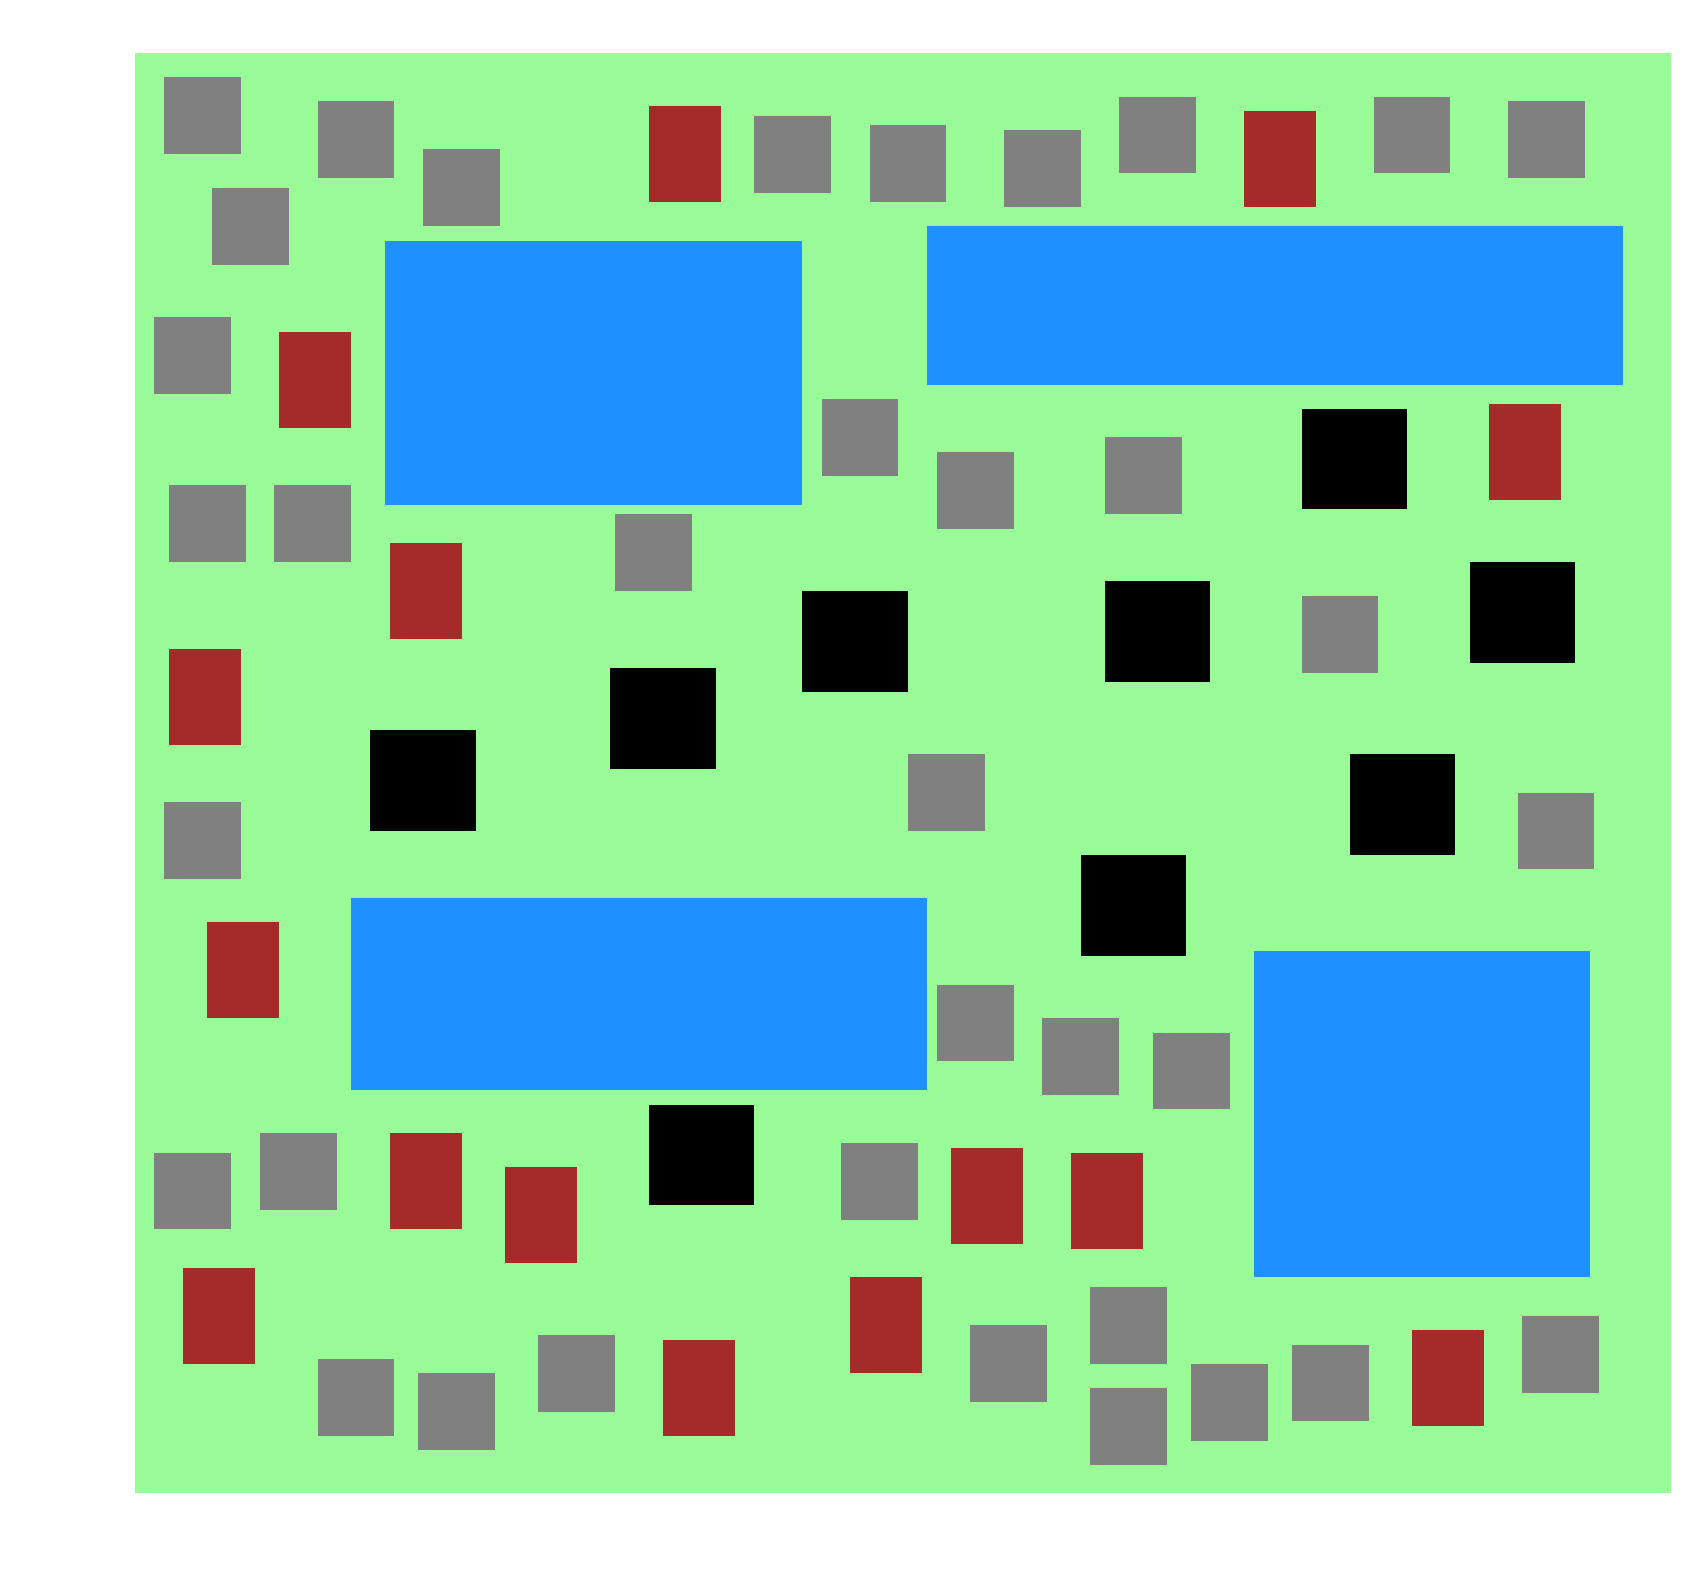
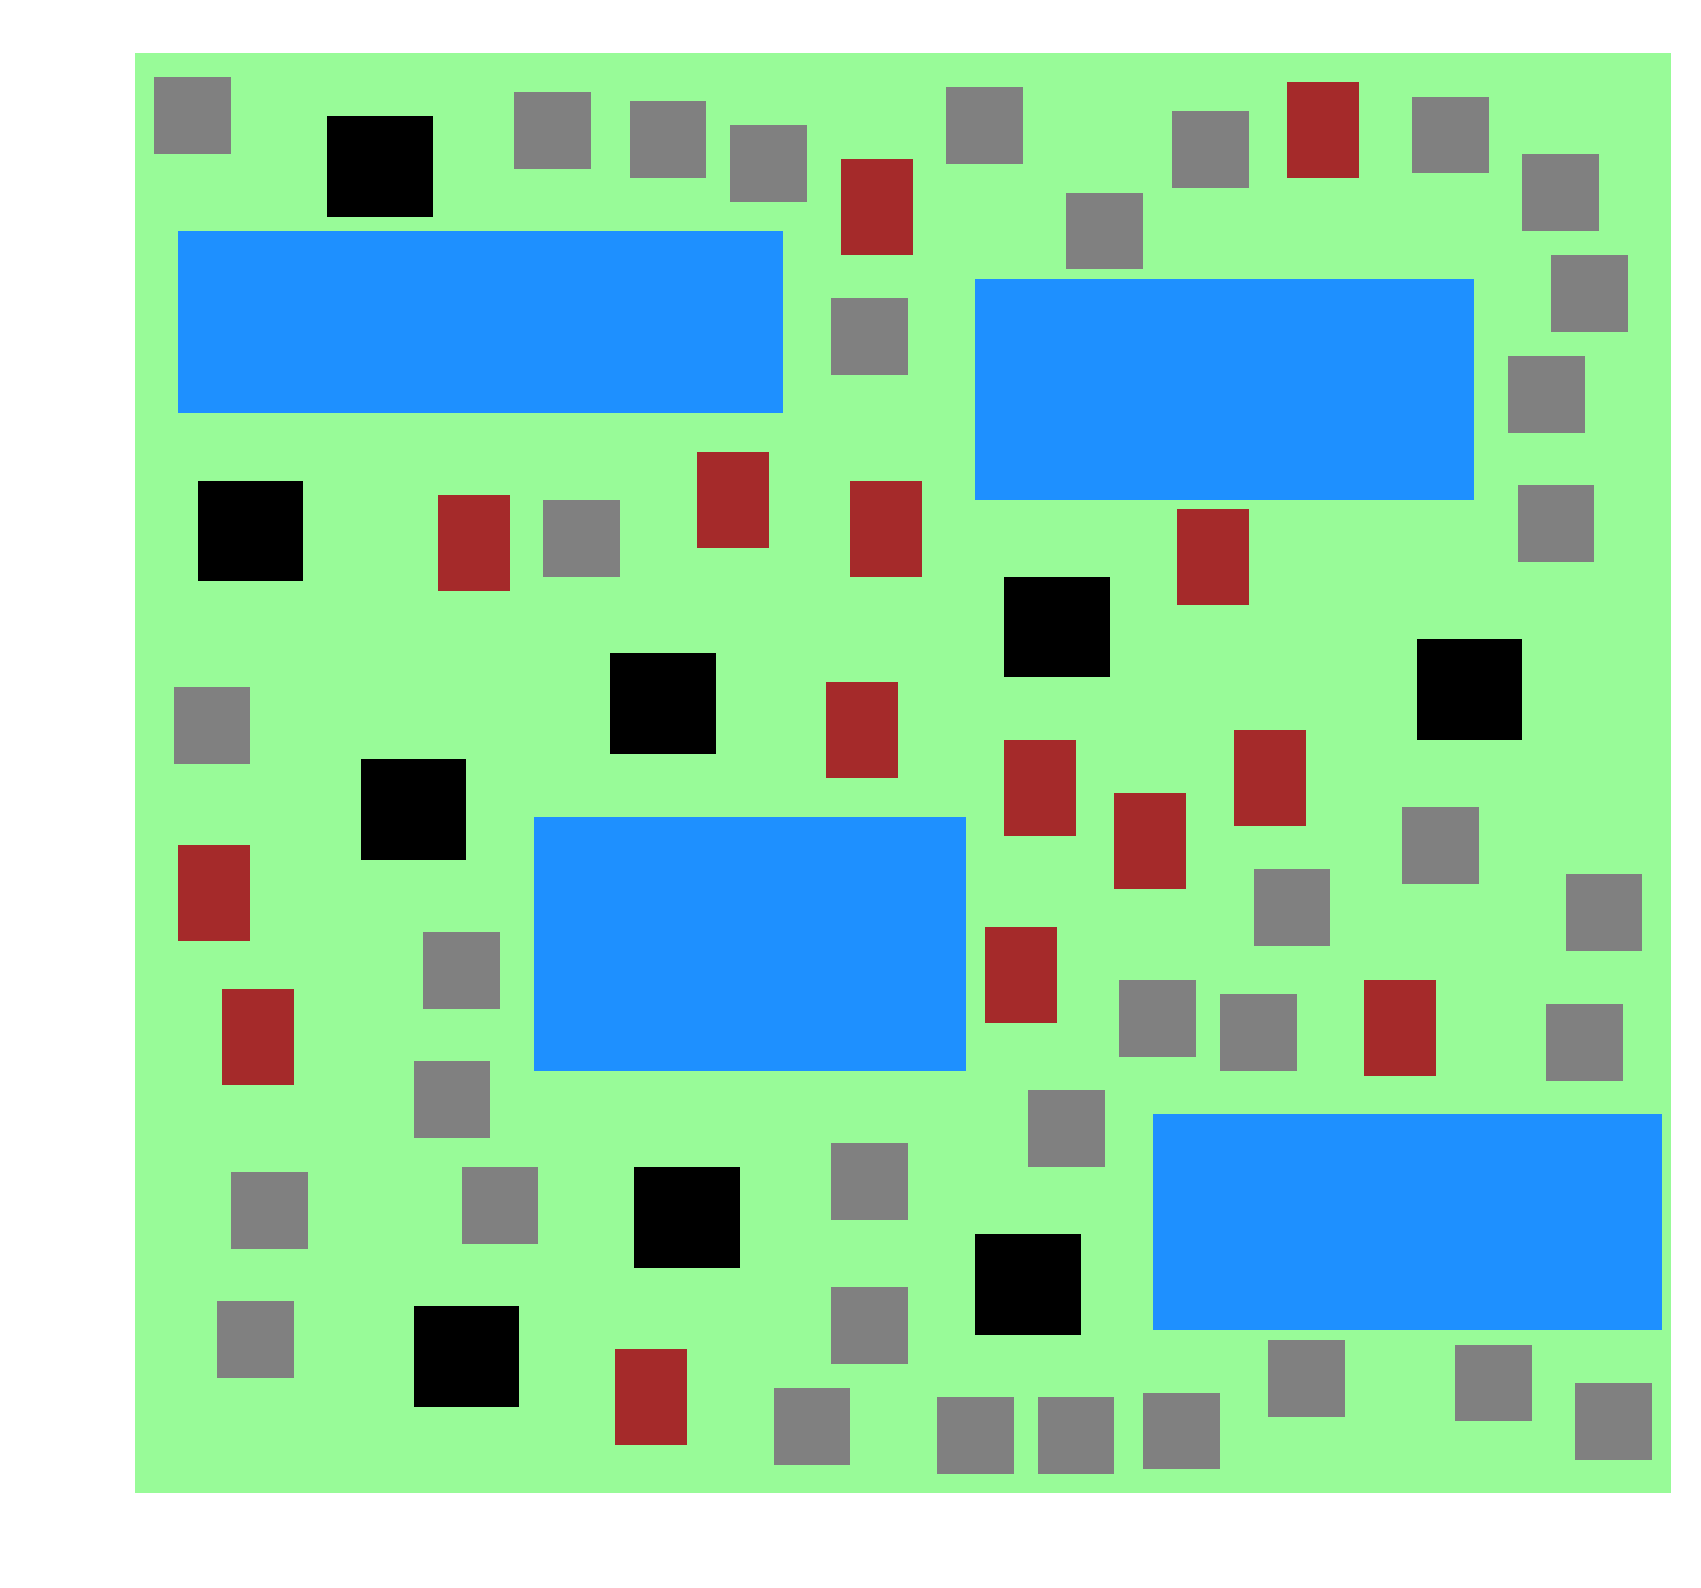
schuif annealing werkt

diff --git a/main.py b/main.py
@@ -2,6 +2,7 @@ import csv
 import sys
 import random
 import matplotlib.pyplot as plt
+import math
 from combination import Combination
 from graph import *
 from schuiven import schuiven
@@ -32,12 +33,12 @@ def informWrongUsage():
     print "Incorrect aantal huizen opgegeven. Correct gebruik:"
     print "python main.py [aantal huizen] [methode] [score]"
     print "aantal huizen: 20, 40 of 60"
-    print "methode: randsample, schuiven of swappen"
+    print "methode: randsample, schuiven, swappen of annealingschuiven"
     print "score: waarde of vrijstand"
     sys.exit()
 
 toegestanehuizen = [20,40,60]
-toegestanemethoden = ["randsample", "schuiven", "swappen"]
+toegestanemethoden = ["randsample", "schuiven", "swappen", "annealingschuiven"]
 toegestanescore = ["waarde", "vrijstand"]
 aantalhuizen = int(sys.argv[1])
 aantalwater = 4
@@ -48,6 +49,8 @@ maxverwerpen = 10
 verwerpen = 0
 randommapper = 500
 best = 0
+begintemperatuur = 250
+gestoldbij = 1
 # 0 = scoren op vrijstand; 1 = scoren op waarde in euro's
 criterium = 0
 
@@ -178,3 +181,34 @@ elif str(sys.argv[2]) == "swappen":
         plt.draw()
         plt.savefig(filename + 'graph.png', dpi=300, bbox_inches='tight')
         iteratie += 1
+
+elif str(sys.argv[2]) == "annealingschuiven":
+    plt.title('Amstelhaege Simulated Annealing Schuiven')
+    combinatie = createRandom()
+    while True:
+        iteratie += 1
+        oldcombi = combinatie
+        if schuiven(combinatie) == True:
+            combinatie.evalueer()
+            temp = combinatie.evaluatie
+            verbetering = temp[criterium] - hoogstewaarde
+            if verbetering < 0:
+                temperatuur = begintemperatuur/iteratie
+                kans = math.e**(verbetering/temperatuur)*100
+                if random.random()*100 < kans:
+                    # bewaar nieuwe combinatie
+                    pass
+                else:
+                    # houd oude combi
+                    combinatie = oldcombi
+                    combinatie.evalueer()
+                    temp = combinatie.evaluatie
+            hoogstewaarde = temp[criterium]
+        uitkomsten.append(hoogstewaarde)
+        plt.figure(1)
+        plt.plot(iteratie, hoogstewaarde, '.-' + graphcolour)
+        plt.suptitle("Huidige waarde: " + str(hoogstewaarde) + " Huidige iteratie: " + str(iteratie), fontsize=13)
+        plt.draw()
+        plt.savefig(filename + 'graph.png', dpi=300, bbox_inches='tight')
+        if temperatuur < gestoldbij:
+            mapMaken(best.houses,filename)
